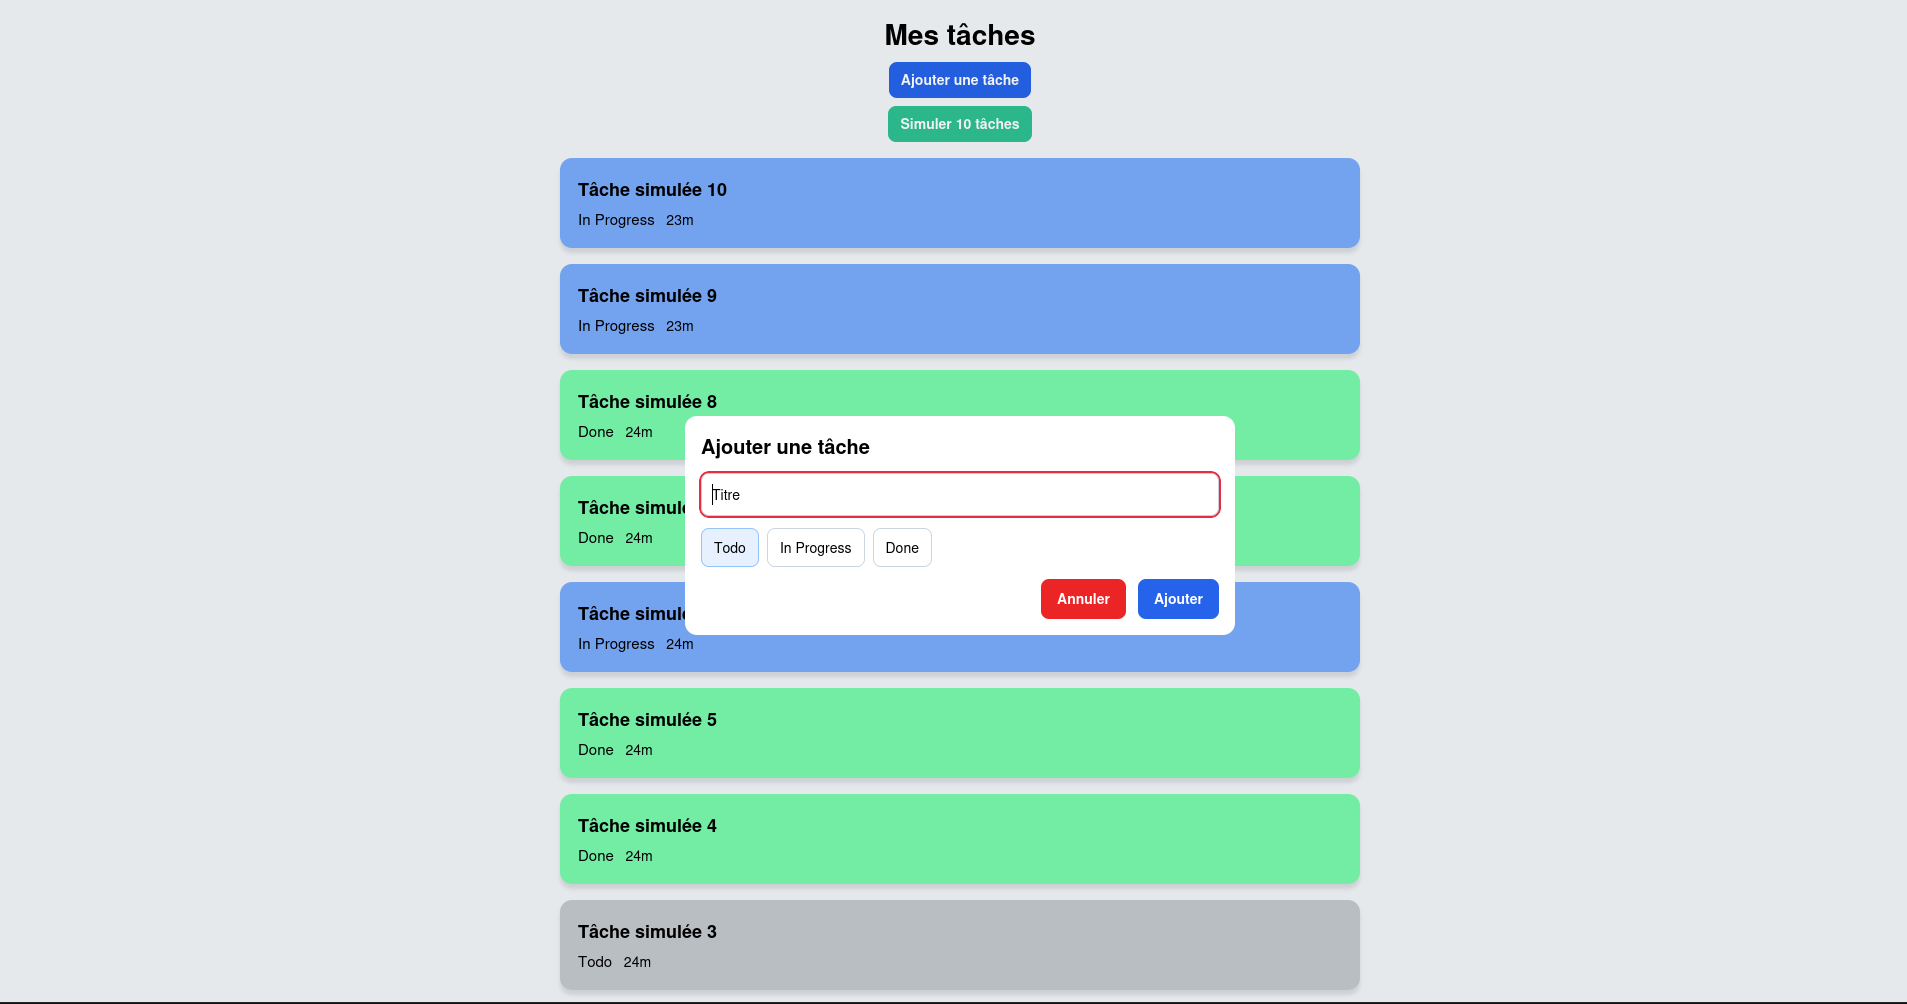
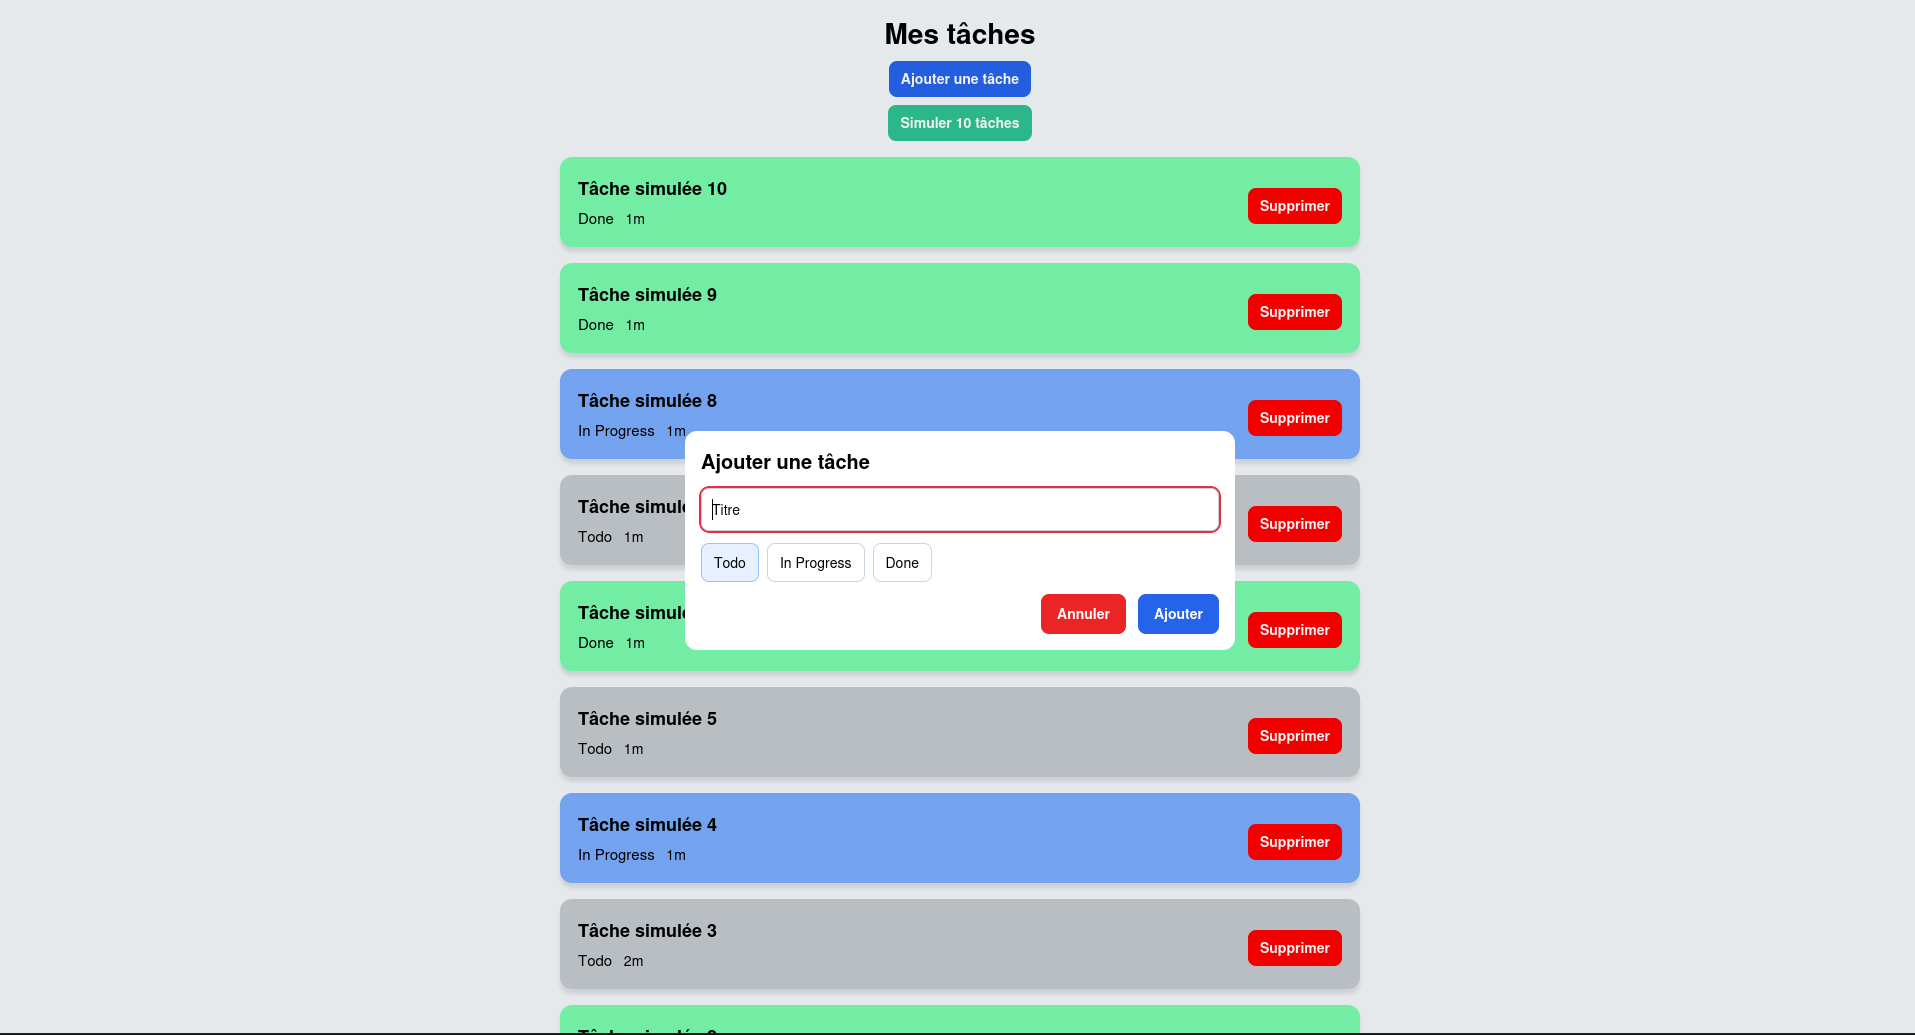
ajout de la fonctionnalité delete pour supprimer une tâche

Changed region(s): [[0.2784, 0.0, 0.7116, 1.0]]

diff --git a/MOBILE/Gestion_des_taches/src/components/taskItem.js b/MOBILE/Gestion_des_taches/src/components/taskItem.js
@@ -1,5 +1,6 @@
 import React, { useEffect, useRef } from "react";
 import { View, Text, StyleSheet, TouchableOpacity, Animated } from "react-native";
+import { deleteTask } from "../api/taskApi";
 
 function statusColor(status) {
   switch (status) {
@@ -30,7 +31,6 @@ function timeAgo(isoDate) {
 export default function TaskItem({ task, onPress }) {
   const bg = statusColor(task.status);
 
-  // fade-in animation on mount
   const opacity = useRef(new Animated.Value(0)).current;
   useEffect(() => {
     Animated.timing(opacity, { toValue: 1, duration: 300, useNativeDriver: true }).start();
@@ -39,7 +39,6 @@ export default function TaskItem({ task, onPress }) {
   return (
     <TouchableOpacity activeOpacity={0.8} onPress={() => onPress && onPress(task)}>
       <Animated.View style={[styles.container, { backgroundColor: bg, opacity }]}> 
-
         <View style={styles.content}>
           <Text numberOfLines={1} ellipsizeMode="tail" style={styles.title}>
             {task.title}
@@ -50,6 +49,16 @@ export default function TaskItem({ task, onPress }) {
             <Text style={styles.time}>{timeAgo(task.createdAt)}</Text>
           </View>
         </View>
+        <TouchableOpacity style={styles.headerAddButton} onPress={async () => {
+          const ok = await deleteTask(task._id);
+          if (ok) {
+            await fetchTask();
+          } else {
+            console.warn('the task was not successfully deleted');
+          }
+        }}>
+          <Text style={styles.headerAddText}>Supprimer</Text>
+        </TouchableOpacity>
       </Animated.View>
     </TouchableOpacity>
   );
@@ -92,5 +101,7 @@ const styles = StyleSheet.create({
   },
   time: { 
     fontSize: 14, color: "#000000ff" 
-  }
+  },
+  headerAddButton: { marginTop: 8, backgroundColor: '#ff0000ff', paddingVertical: 8, paddingHorizontal: 12, borderRadius: 8 },
+  headerAddText: { color: '#fff', fontWeight: '600' }
 });

diff --git a/BACKEND/routes/task_route.js b/BACKEND/routes/task_route.js
@@ -3,12 +3,11 @@ const Task = require("../models/task");
 
 const router = express.Router();
 
-// GET /tasks
 router.get("/", async (req, res) => {
   try {
     const tasks = await Task.find({})
-      .sort({ createdAt: -1 }) // tri décroissant (les plus récentes d'abord)
-      .limit(20);              // max 20 tâches
+      .sort({ createdAt: -1 }) 
+      .limit(20);              
     res.json(tasks);
   } catch (err) {
     res.status(500).json({ error: "Erreur serveur" });
@@ -29,7 +28,7 @@ router.post("/simulate", async (req, res) => {
         console.log("Tâche simulée " + i + " créée");
       } 
       catch (err) {
-        console.error("Erreur création tâche simulée :", err);
+        console.log("Erreur création tâche simulée :", err);
       }
     }, i * 5000);
   }
@@ -45,7 +44,24 @@ router.post("/", async (req, res) => {
     console.log("Tâche créée :");
   } 
   catch (err) {
-    console.error(err);
+    console.log(err);
+    res.status(500).json({ error: "Erreur serveur" });
+  }
+});
+
+router.post("/delete/:id", async (req, res) => {
+  try {
+    const { id } = req.params;
+    const taskDelete = await Task.findByIdAndDelete(id);
+    console.log("Tâche supprimée :", id);
+
+    if (!taskDelete){
+      return res.status(404).json({ error: "Tâche non trouvée" });
+    }
+
+  }
+  catch(err) {
+    console.log(err);
     res.status(500).json({ error: "Erreur serveur" });
   }
 });

diff --git a/MOBILE/Gestion_des_taches/src/api/taskApi.js b/MOBILE/Gestion_des_taches/src/api/taskApi.js
@@ -58,4 +58,16 @@ export const getTask = async ({ after, signal } = {}) => {
   }
 }
 
+export async function deleteTask(id) {
+  const url = `${BASE_URL}/delete/${id}`;
+  try {
+    const res = await fetch(url, { method: 'POST' });
+      return res.ok;
+  }
+  catch (err) {
+    console.log("deleteTask failed", err);
+    return false;
+  }
+}
+
 

diff --git a/BACKEND/src/app.js b/BACKEND/src/app.js
@@ -12,7 +12,7 @@ mongoose.connect("mongodb://127.0.0.1:27017/gestionnaire_de_taches")
   .then(() => console.log("connecté à la bdd"))
   .catch(err => console.error(err));
 
-// Charger les routes
+//charger les routes
 const taskRoutes = require("../routes/task_route");
 app.use("/task", taskRoutes);
 
